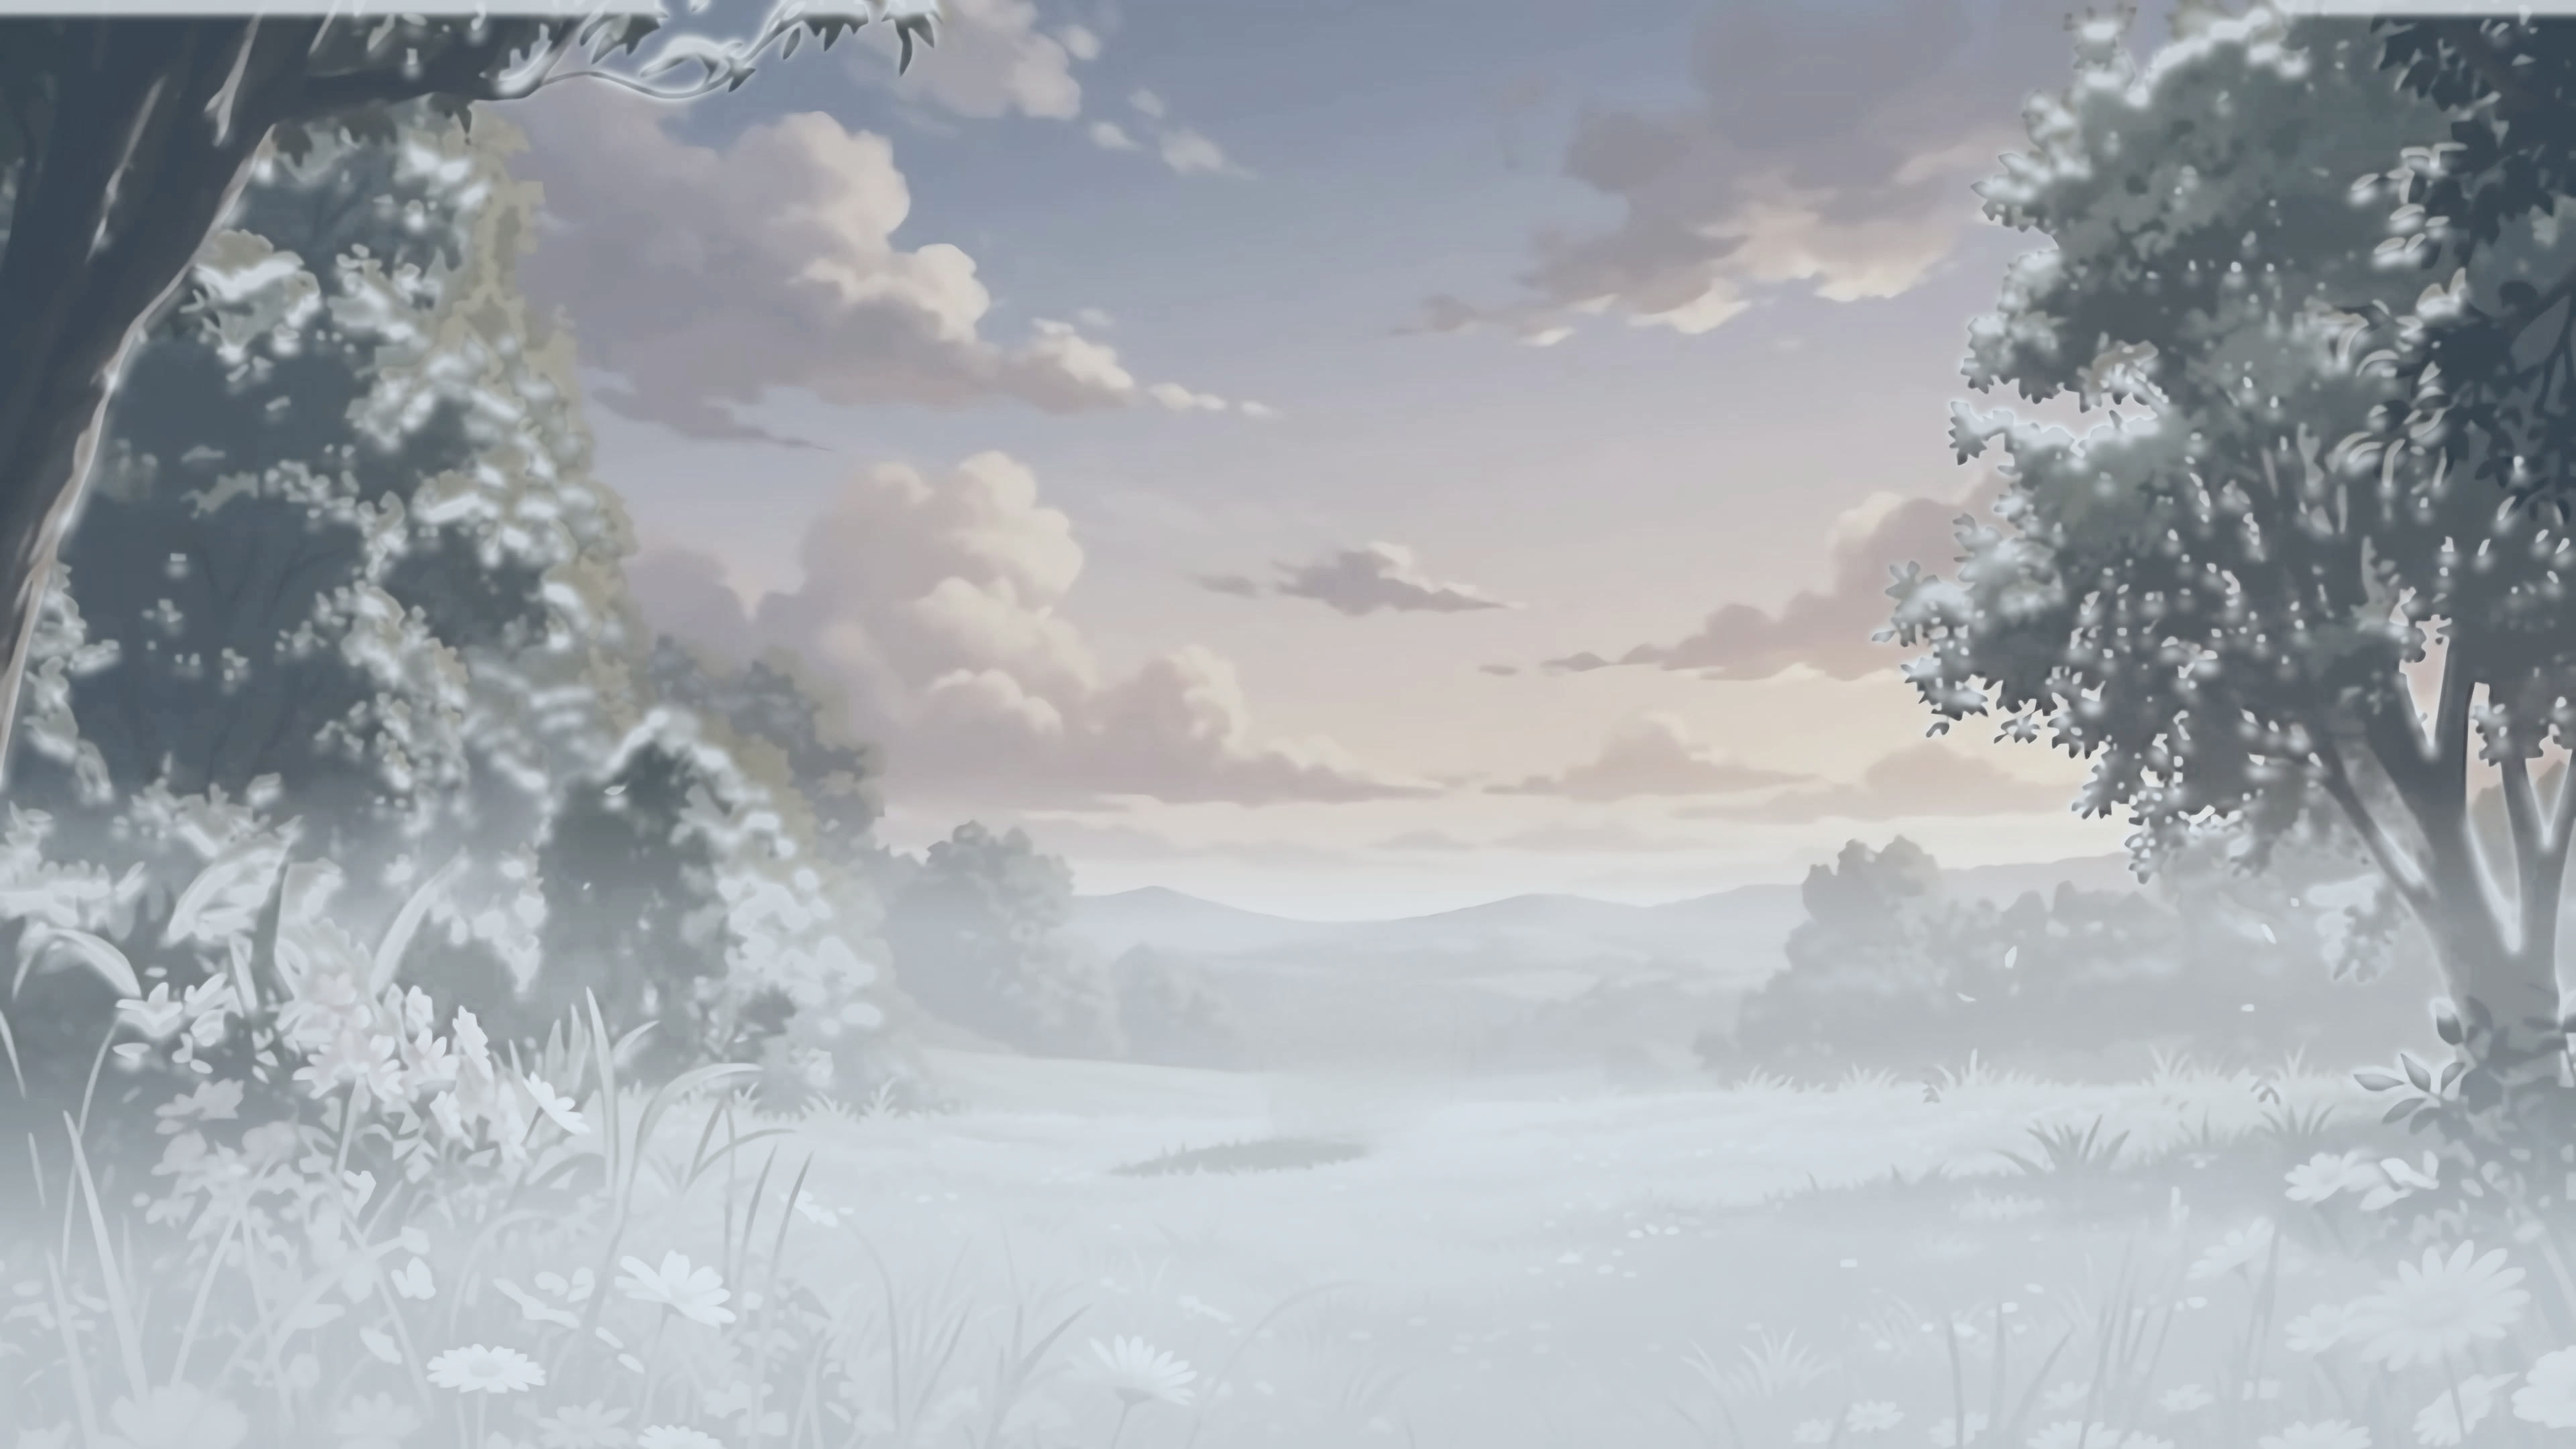
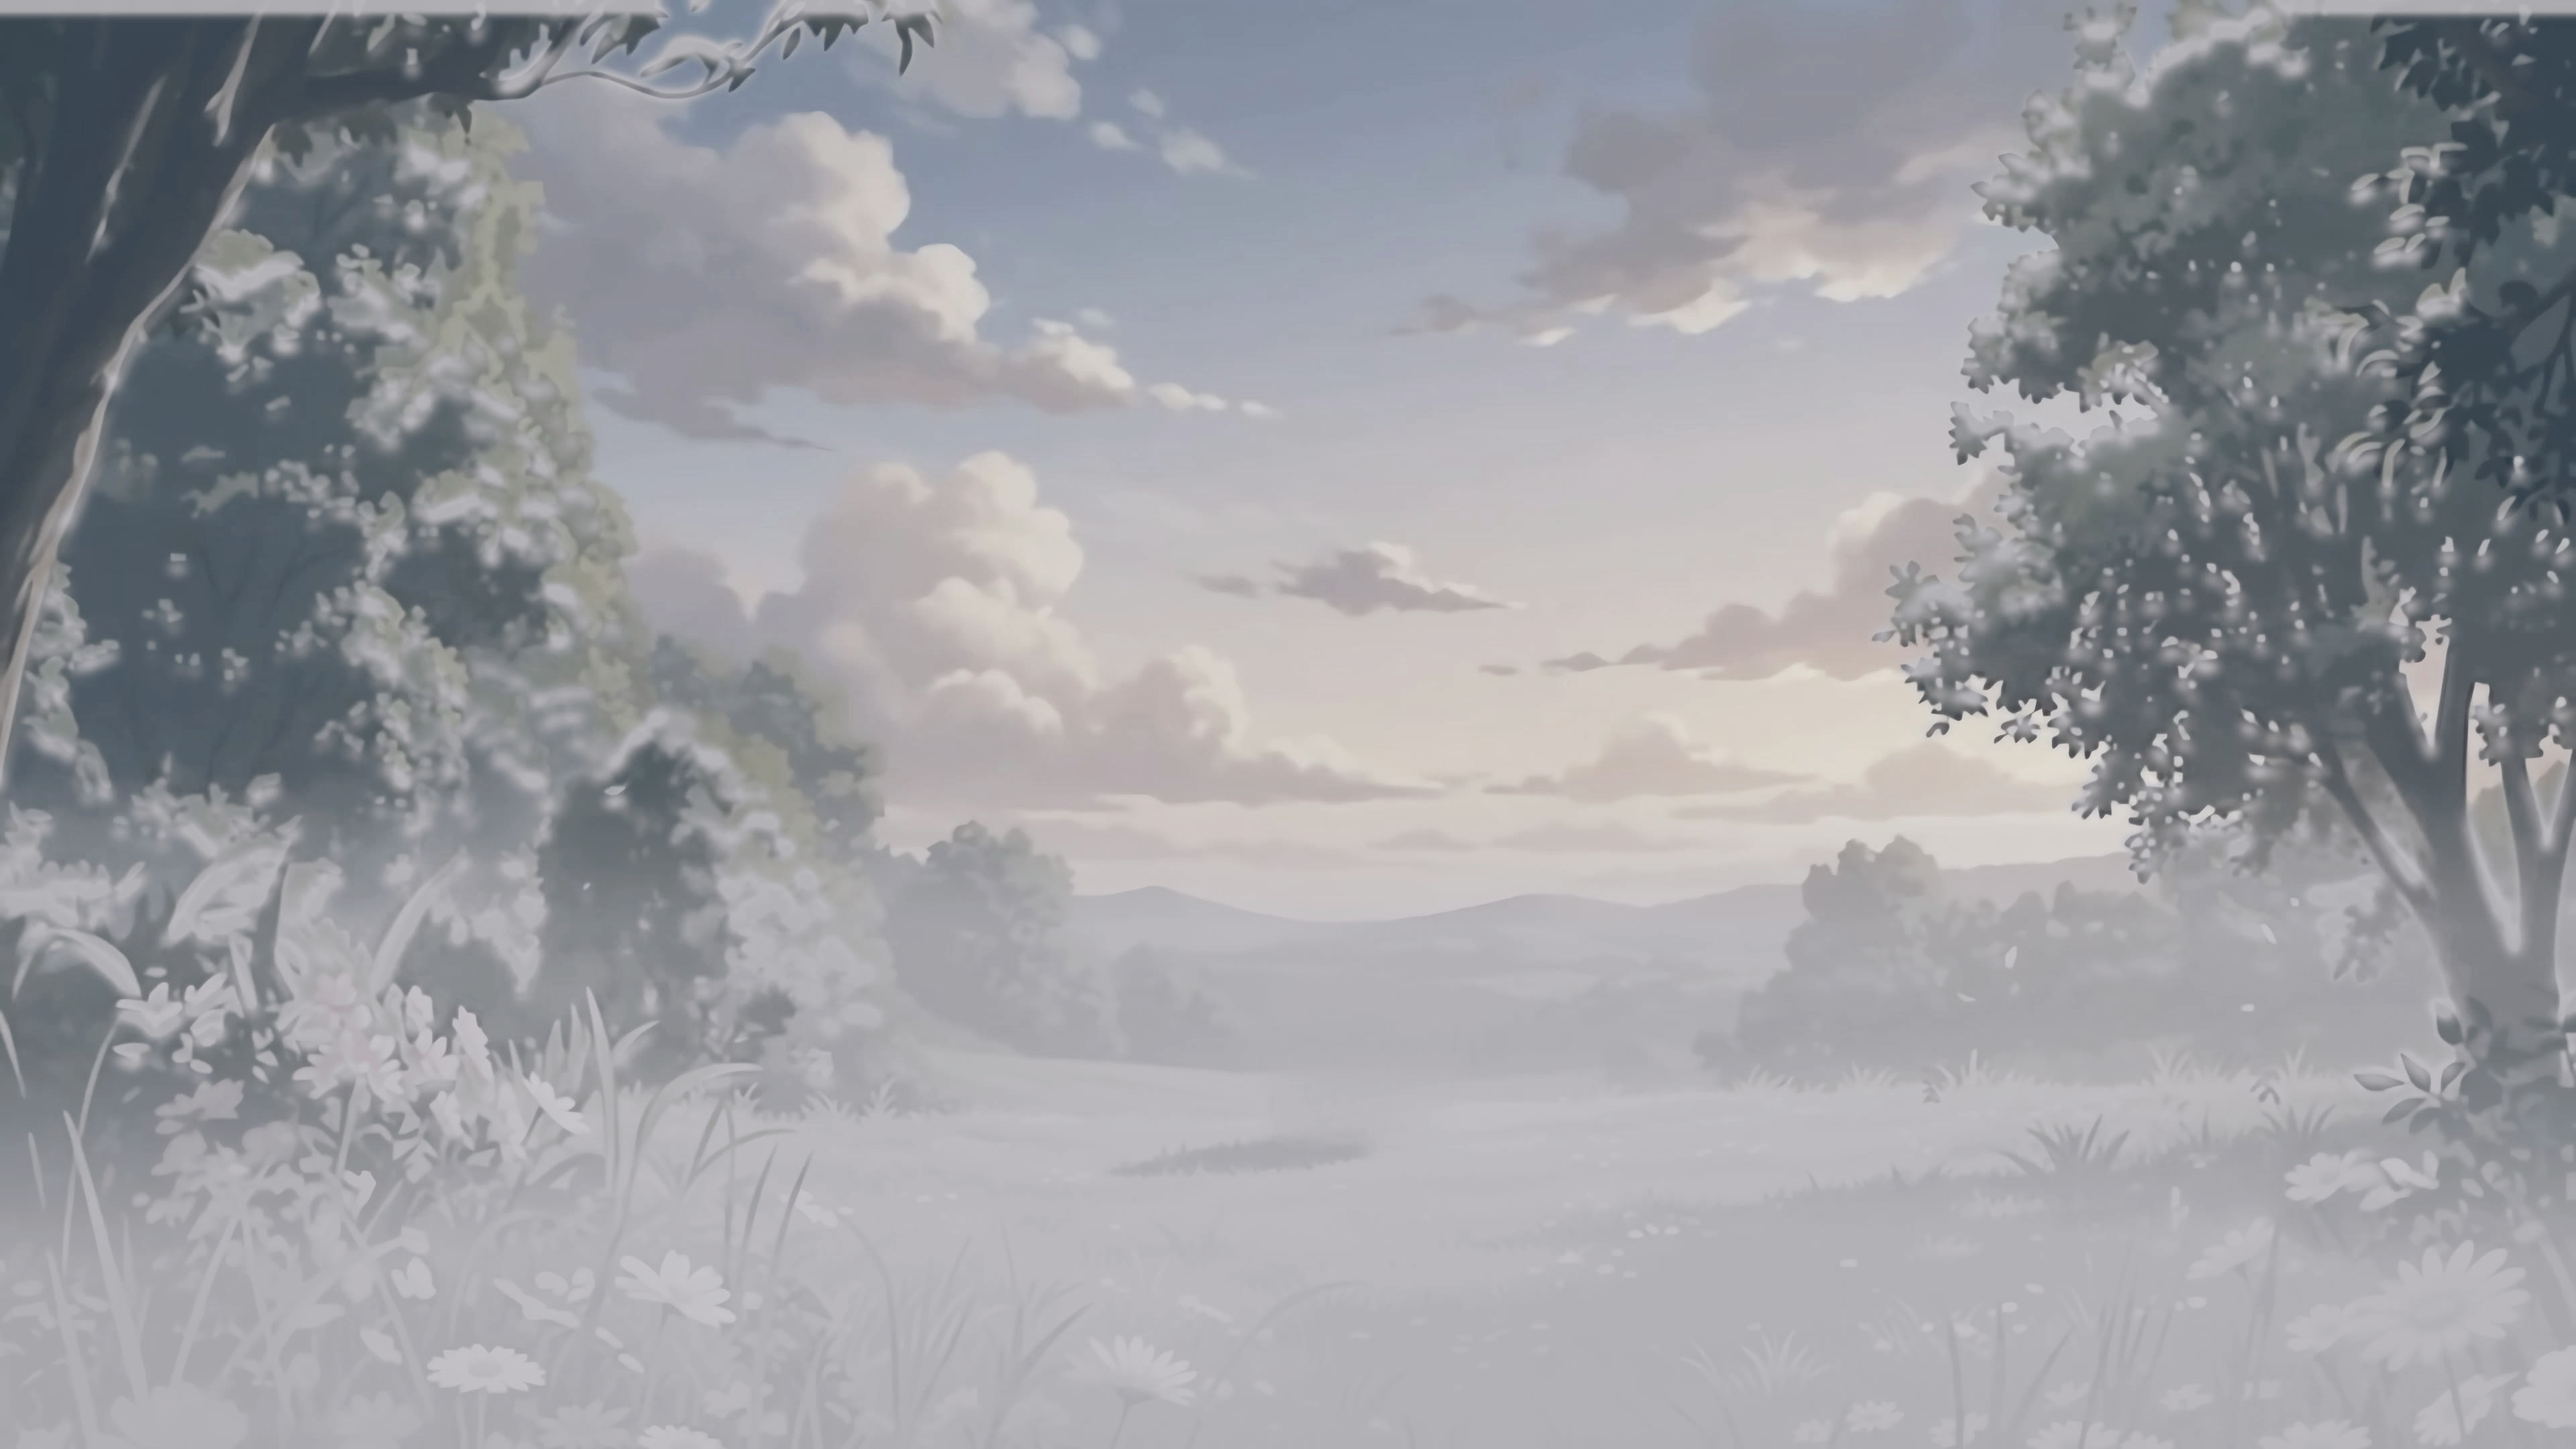
Light the snow with the sky, not with a fixed white
"겨울밤인데 위만 밤이고 아래는 낮이야? 뭐야 이게" — 눈을 변형과 무관하게 고정
흰색(246,249,255)으로 칠하고 있었다. 눈은 스스로 빛나지 않고 하늘빛을 받아
보이는데 그걸 무시했으니, 밤하늘 아래 대낮 눈밭이 됐다.

이제 그 변형의 하늘 평균 밝기·색조에서 눈 색을 끌어온다:
max(하늘×1.35, 하늘+45). 하한 45가 있어야 달빛 눈이 어둠에 안 묻힌다.
색조도 하늘의 RGB 비율을 따라가 밤 눈은 푸르스름해진다.

  낮 하늘 178 → 눈 241 / 노을 152 → 205 / 밤 49 → 94 / 밤비 42 → 87

하늘·땅 밝기 차이가 낮 +26, 노을 +32, 밤 +30, 밤비 +38로 고르게 맞는다
(고치기 전엔 밤이 +130이었다).

내리는 눈 레이어에도 .graded를 달아 같은 변형 보정을 받게 했다 — 안 그러면
밤에 순백 점만 떠서 같은 실수를 반복한다.

ASSET_V 20260906a → b.

Claude-Session: https://claude.ai/code/session_01DfXVxXN3TYLX1vj93jJ6MP

diff --git a/index.html b/index.html
@@ -292,6 +292,8 @@
     animation: rainfall linear infinite, sway ease-in-out infinite;
     animation-play-state: paused;
   }
+  /* .graded를 달아 변형 보정을 받는다 — 안 그러면 밤에 순백 점이 떠서
+     눈만 대낮처럼 보인다(눈 배경에서 겪은 것과 같은 실수) */
   .fall-far  { background-image: var(--fall-far);  animation-duration: 19s, 13s; }
   .fall-near { background-image: var(--fall-near); animation-duration: 12s, 8s; }
   @keyframes sway {
@@ -381,8 +383,8 @@
 <div class="rain rain-near"></div>
 
 <!-- 겨울 눈. 텍스처는 JS가 계절에 따라 --fall-* 로 꽂는다 -->
-<div class="fall fall-far"></div>
-<div class="fall fall-near"></div>
+<div class="fall fall-far graded"></div>
+<div class="fall fall-near graded"></div>
 
 <div class="vignette"></div>
 
@@ -605,7 +607,7 @@ function layoutFrameBox(el) {
      그래서 URL에 판번호를 붙여 한 벌로 받게 한다.
      **bg-*.jpg / naeru-*.* 를 다시 구우면 이 값을 반드시 올릴 것.**
      (배경 영상 meadow-*는 안 바뀌므로 그대로 둔다) */
-  var ASSET_V = "20260906a";
+  var ASSET_V = "20260906b";
   function av(u) { return u + "?v=" + ASSET_V; }
   document.documentElement.dataset.av = ASSET_V;   // 혀 IIFE가 캐시 판번호를 쓴다
 

diff --git a/tools/season/repaint.py b/tools/season/repaint.py
@@ -113,7 +113,24 @@ def autumn_leaves(a, tree, shape, rng):
     return hsv_recolor(a, tree * 0.92, hue, 2.1, 1.03)
 
 
-def winter_snow(a, L, yy, tree, shape, rng):
+def snow_white(a, sky, shape):
+    """이 변형에서 눈이 어떤 색이어야 하는가.
+
+    **고정된 흰색으로 칠하면 안 된다** — 밤인데 땅만 대낮처럼 하얘진다
+    (2026-09-06 제보 "위만 밤이고 아래는 낮이야?"). 눈은 스스로 빛나지 않고
+    하늘빛을 받아 보이므로, 그 변형의 **하늘 밝기와 색조**에서 끌어온다.
+    하늘보다 45는 밝게 두는 하한이 있어야 달빛 눈이 어둠에 묻히지 않는다."""
+    H, W = shape
+    core = sky > 0.6
+    m = a[core].mean(0) if core.any() else np.array([180.0, 180.0, 190.0])
+    level = float(np.clip(max(m.mean() * 1.35, m.mean() + 45), 60, 252))
+    tint = m / max(m.mean(), 1.0)
+    col = np.clip(tint * level, 0, 255)
+    col[2] = min(255.0, col[2] * 1.03)        # 눈 그늘은 살짝 푸르다
+    return np.broadcast_to(col, (H, W, 3)).copy()
+
+
+def winter_snow(a, L, yy, tree, shape, rng, sky):
     """들판·나무에 눈을 얹는다.
 
     나무 눈을 무작위 잡음으로 뿌리면 잔모래처럼 보인다 — **원화에서 밝게
@@ -144,8 +161,7 @@ def winter_snow(a, L, yy, tree, shape, rng):
     a = a * (1 - front * 0.78) + soft * (front * 0.78)
     snow = np.clip(snow + front[..., 0] * 0.55, 0, 1)
 
-    white = np.stack([np.full((H, W), 246.0), np.full((H, W), 249.0),
-                      np.full((H, W), 255.0)], -1)
+    white = snow_white(a, sky, (H, W))
     keep = L[..., None] / 255 * 0.30 + 0.70      # 원본 명암을 조금 남긴다
     return a * (1 - snow[..., None]) + white * keep * 0.93 * snow[..., None]
 
@@ -200,7 +216,7 @@ def main():
             if s == "autumn":
                 a = autumn_leaves(a, tree, shape, rng)
             elif s == "winter":
-                a = winter_snow(a, L, yy, tree, shape, rng)
+                a = winter_snow(a, L, yy, tree, shape, rng, sky)
 
             src = tmp / "in.png"
             Image.fromarray(np.clip(a, 0, 255).astype(np.uint8)).save(src)
